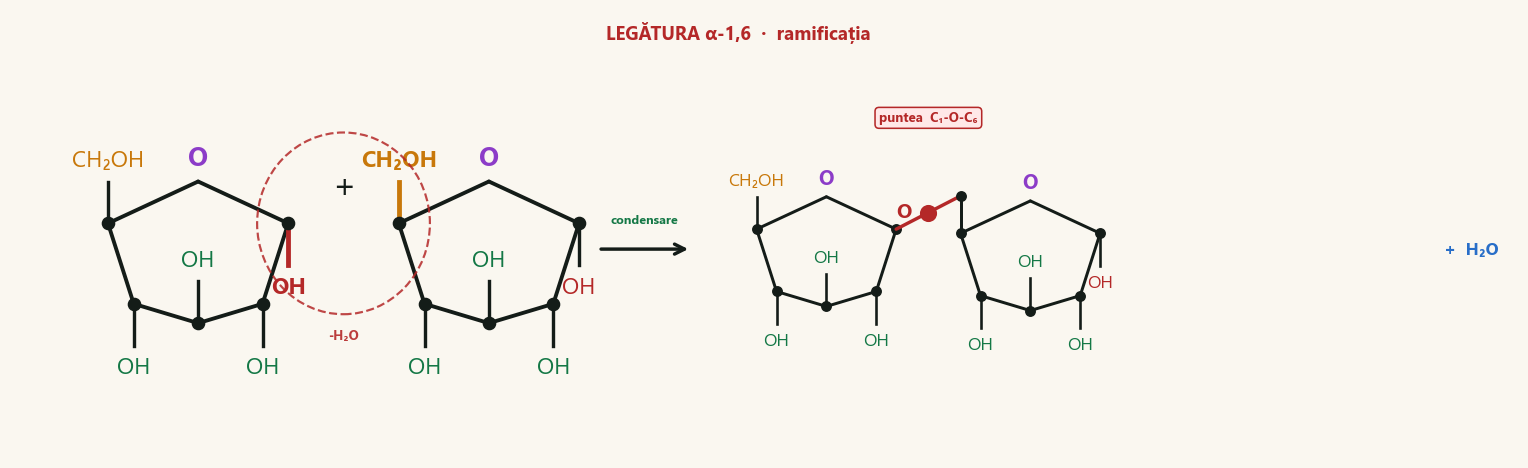
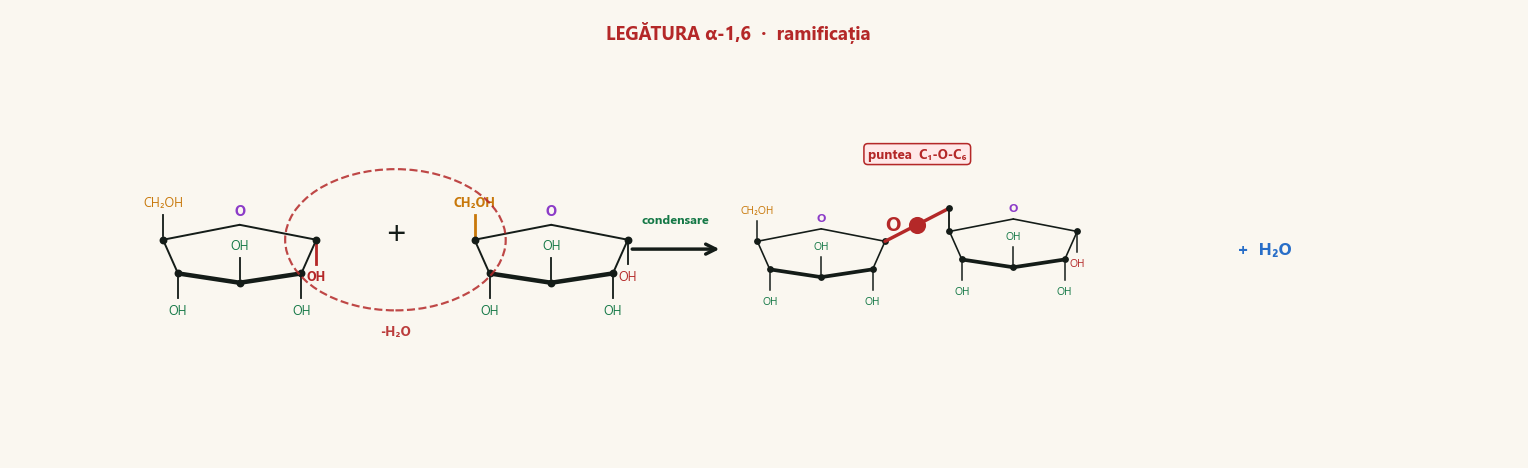
Redesign bond_a14.png and bond_a16.png with wide flat Haworth rings
Switch ring geometry from narrow (0.56 x-offset) to wide flat Haworth
(0.82 x-offset, ~2.5:1 width:height ratio) matching the ramificatie diagram.
Add thick front bonds (C2-C3, C3-C4) per Haworth convention.
Bump cache-busters to ?v=2 in index.html.

diff --git a/index.html b/index.html
@@ -371,8 +371,8 @@ tbody tr:hover td,tbody tr:hover th{background:rgba(57,217,138,.05)}
       <div class="eyebrow u">Structura moleculară · în detaliu</div>
       <h2 class="u" style="--d:1">Cum se leagă unitățile</h2>
       <p class="u" style="--d:2">Două molecule de glucoză se apropie și se unesc eliminând o moleculă de apă (condensare). Există două variante, în funcție de ce hidroxil reacționează:</p>
-      <div class="plate-light rxn u" style="--d:3"><img src="images/bond_a14.png" alt="formarea legaturii alfa-1,4 din doua glucoze"></div>
-      <div class="plate-light rxn u" style="--d:4;margin-top:12px"><img src="images/bond_a16.png" alt="formarea legaturii alfa-1,6 din doua glucoze"></div>
+      <div class="plate-light rxn u" style="--d:3"><img src="images/bond_a14.png?v=2" alt="formarea legaturii alfa-1,4 din doua glucoze"></div>
+      <div class="plate-light rxn u" style="--d:4;margin-top:12px"><img src="images/bond_a16.png?v=2" alt="formarea legaturii alfa-1,6 din doua glucoze"></div>
     </div>
   </section>
 